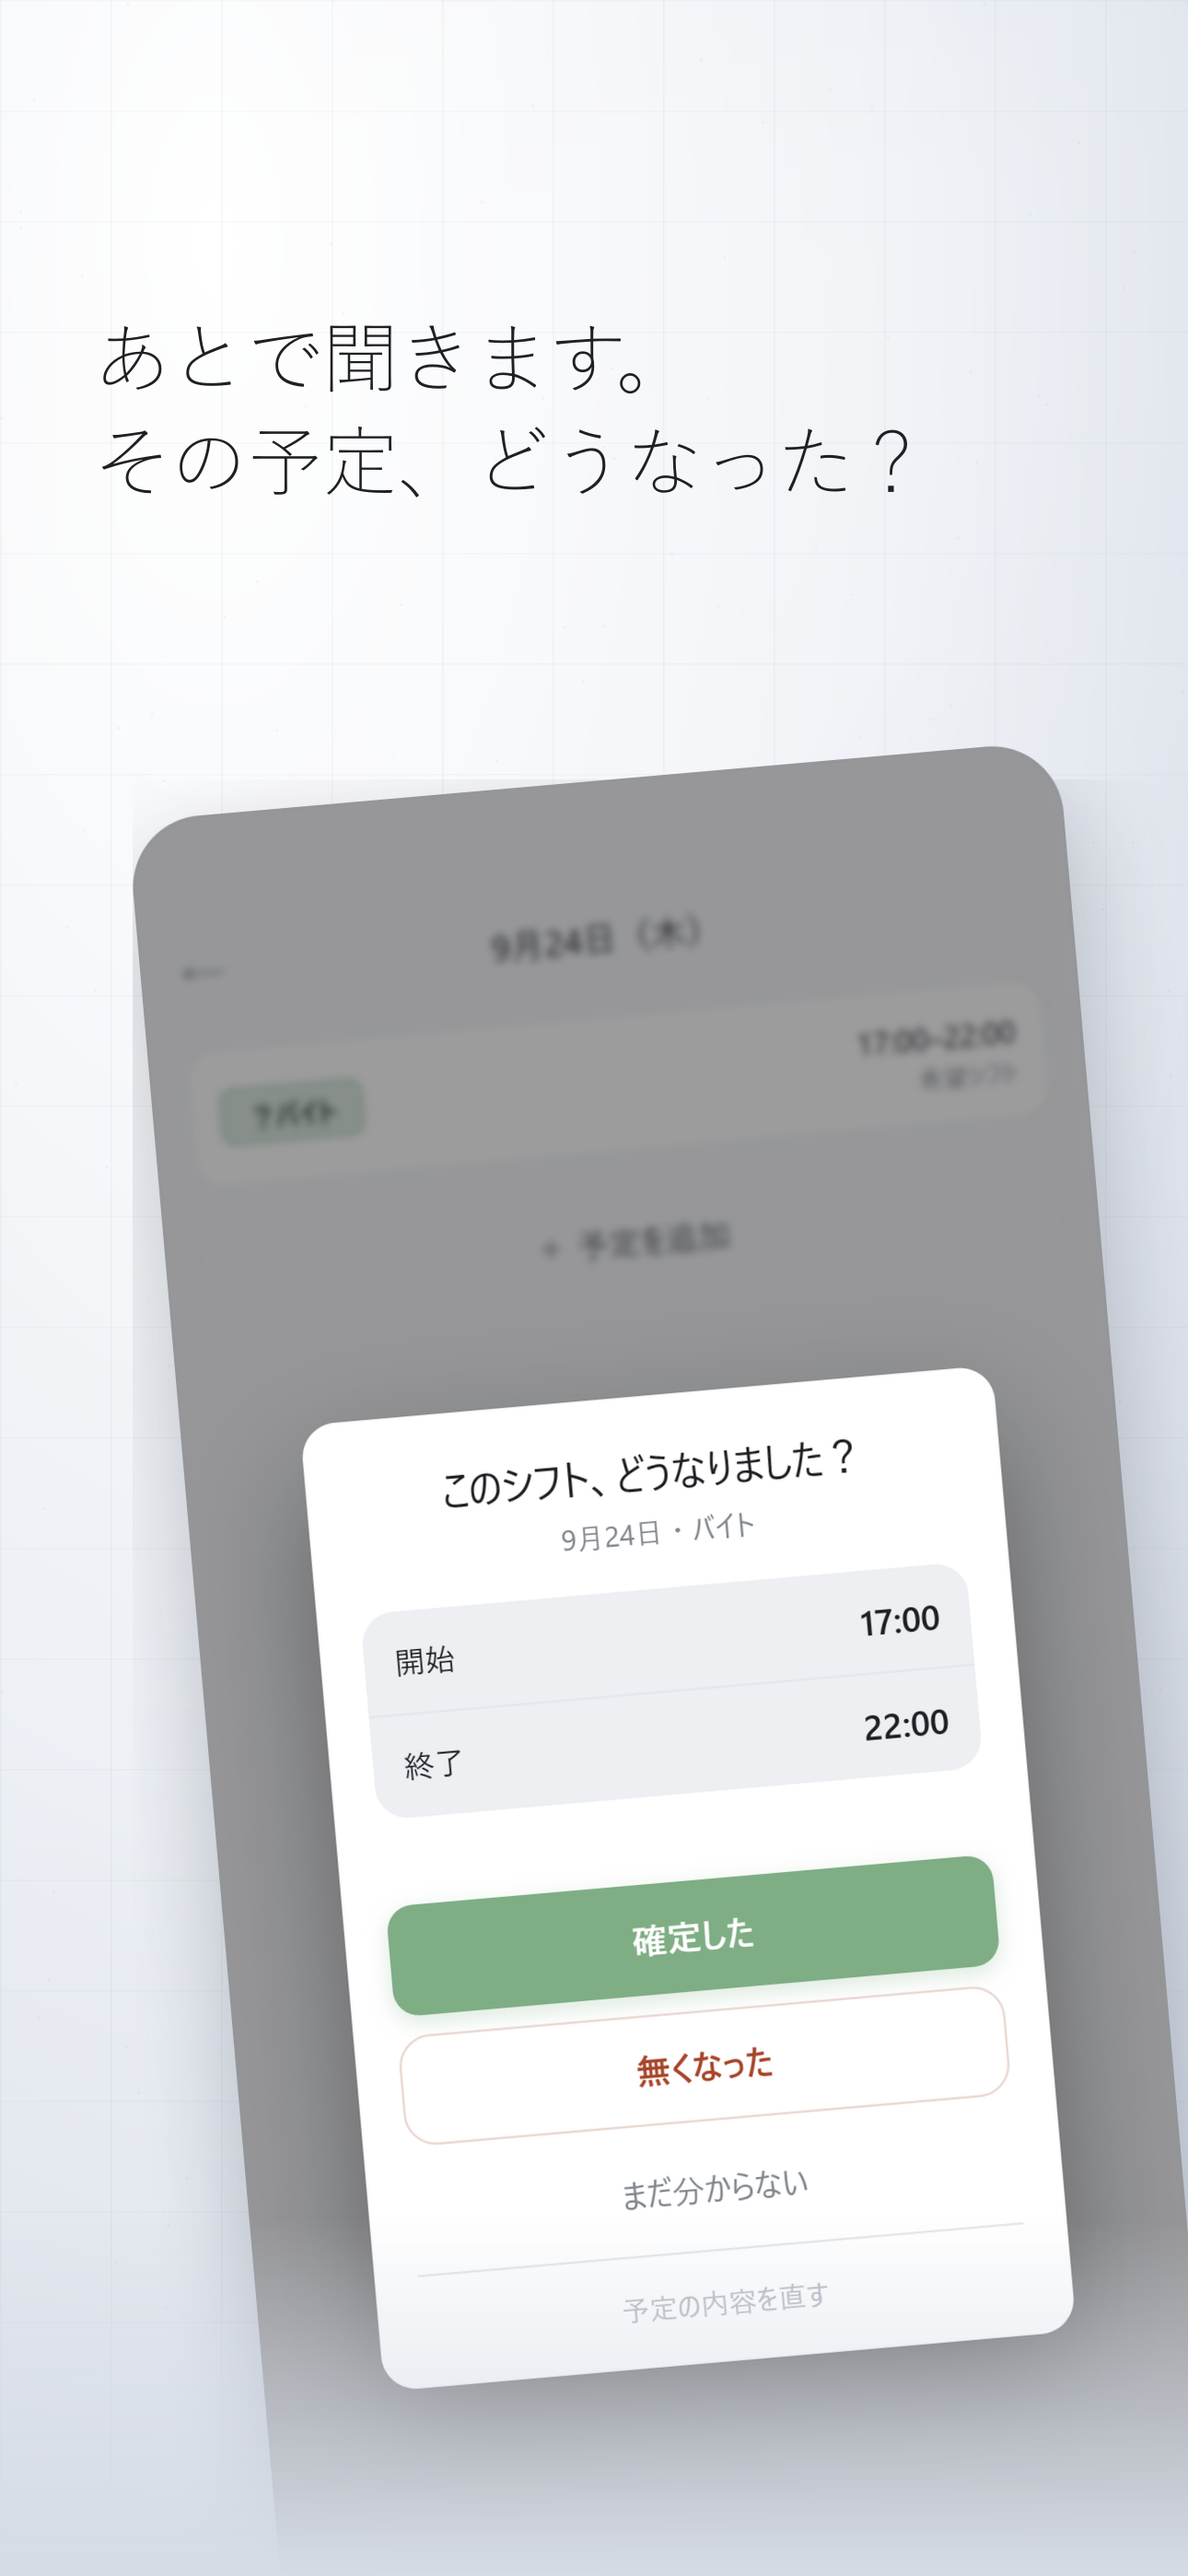
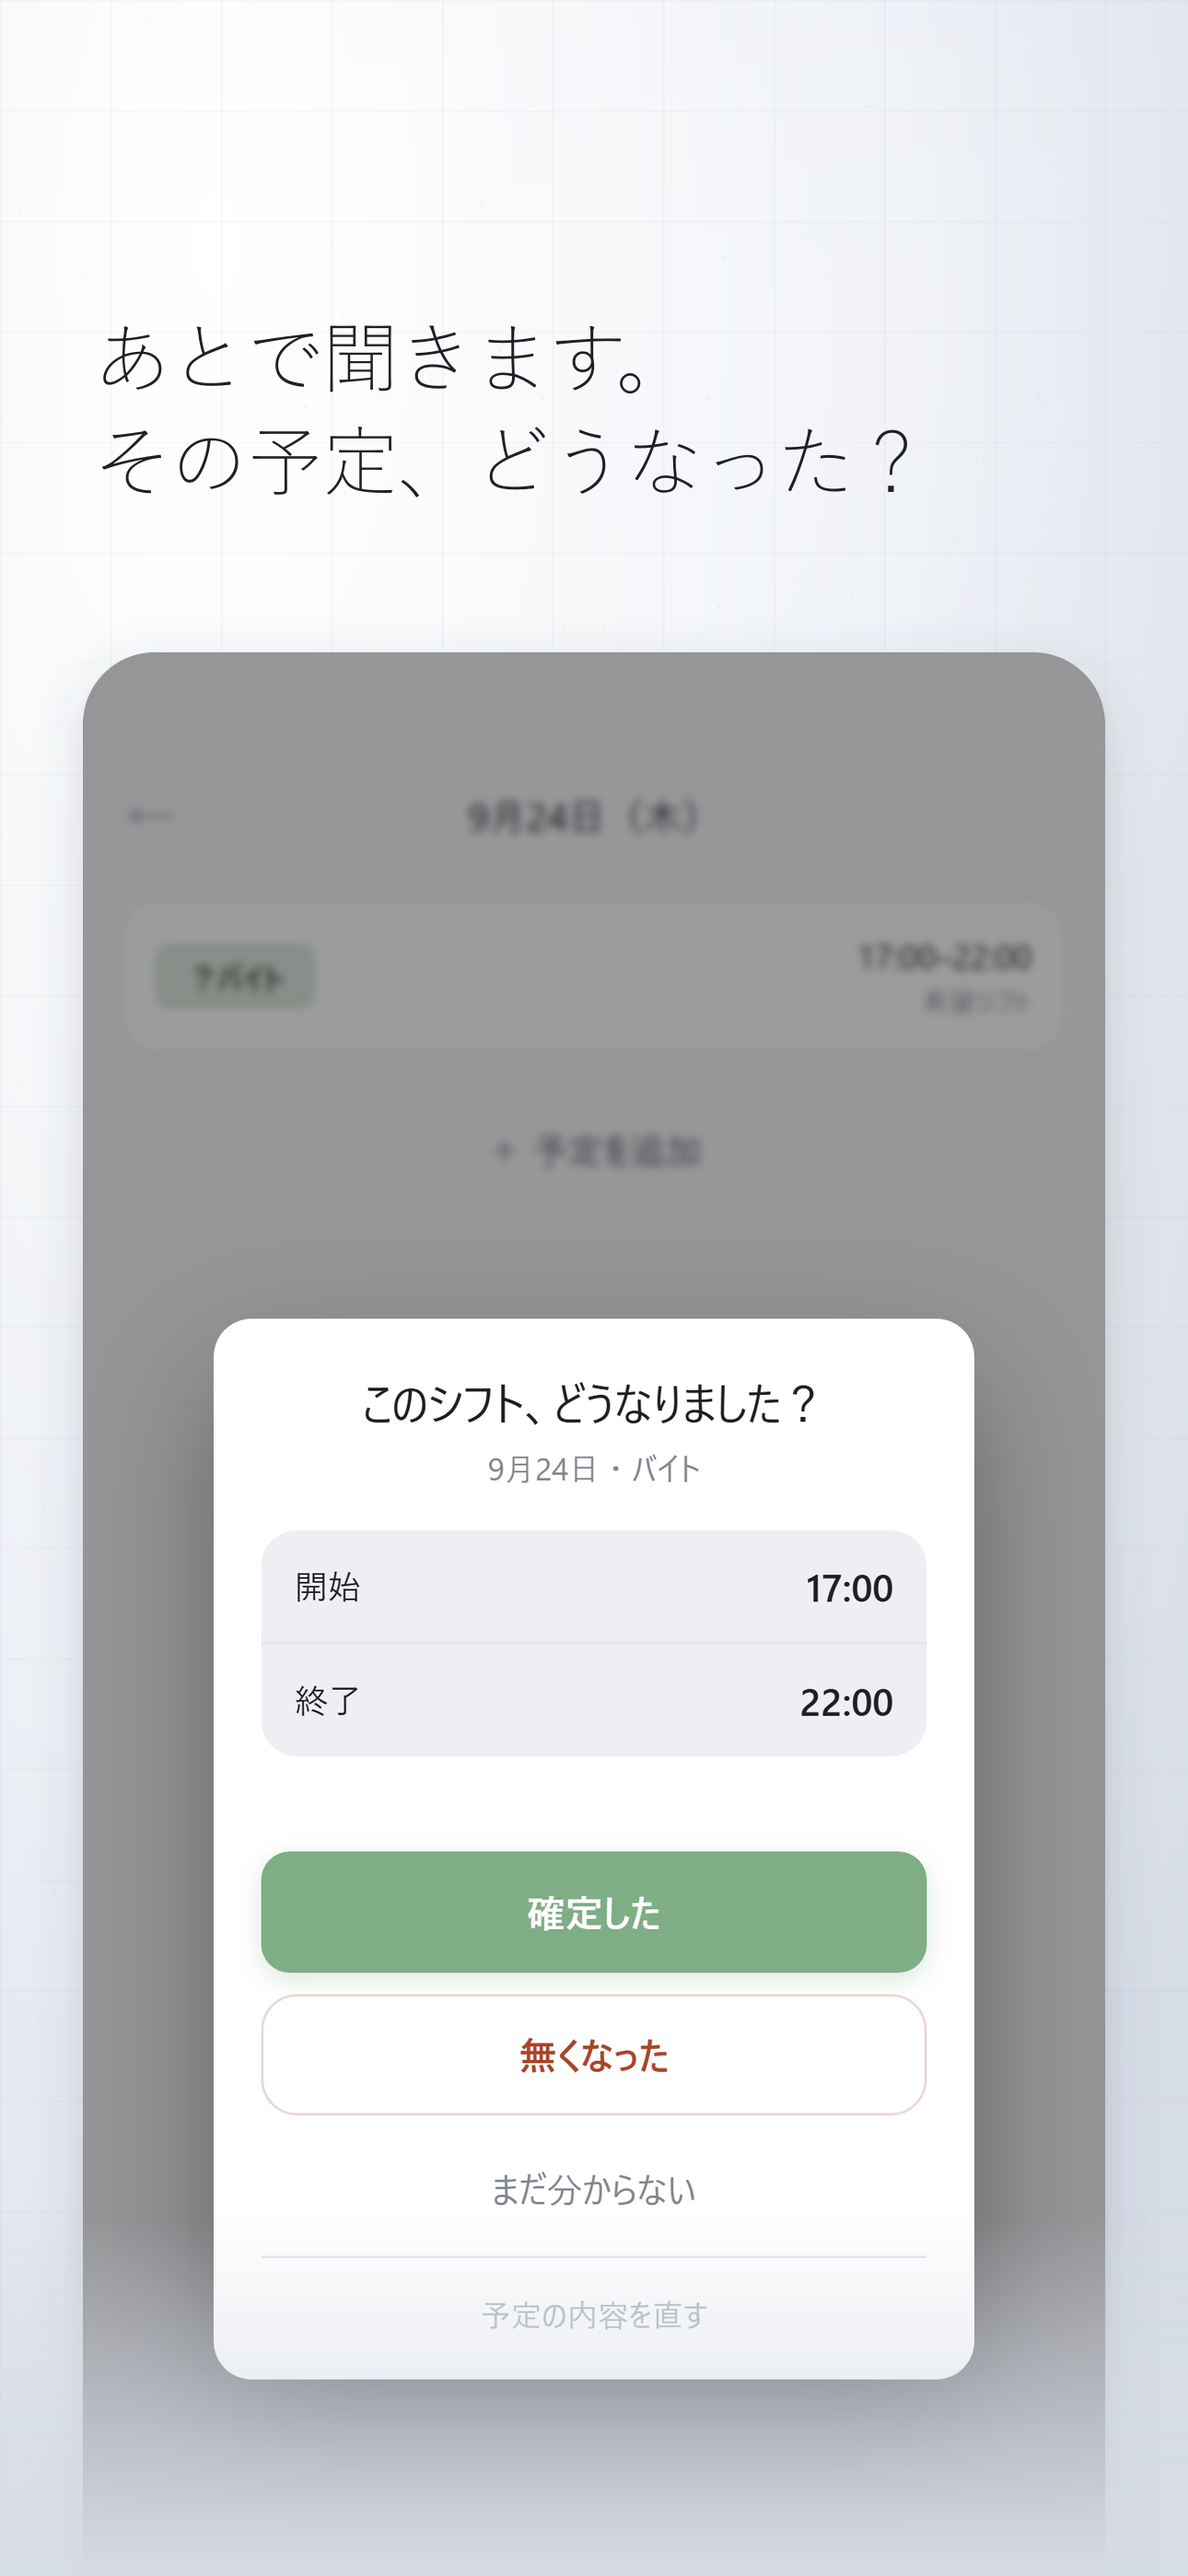
Revert "2枚目から板を傾けて、並びにリズムを付ける"
This reverts commit e596c778de576cba66b183dc4dc78250fd77e9bc.

diff --git a/store-assets/app-store-metadata.md b/store-assets/app-store-metadata.md
@@ -219,13 +219,6 @@ App Store に登録するのは、そこに見出しを載せた **`store-cards-
   アプリの地はその下まで続いている。**その地の色をそのまま上へ伸ばしている**
   ——白で塗ると継ぎ目が出るし、時計を描き足すと嘘になる
 - **板の下は地へ霞ませて終わらせる。** ぶつ切りは「切り忘れ」に見える
-- **1枚目だけ正面。2枚目から板を傾ける。** 真正面に5枚並べると「貼っただけ」に見える。
-  傾きは向きを交互にして（−5 / +6 / −5 / +6）、左右どちらへ流すかも入れ替える。
-  **切れてもよいが、その画面の要点が残ることだけは確かめる** —— 一度3枚目を右へ流して
-  「給料」のつまみを切ってしまい、見出しが指している証拠が消えた。左へ流し直した
-- 傾けた板の影は、**四角い影を回しても形が合わない**。板と同じ形の黒を作ってぼかす
-  （`shadowOf`）。枠からはみ出す分は先に切る（`place`）——
-  sharp は枠より大きい画像を `composite` で受け取らない
 - 色はアプリが実際に出しているものだけ。Lab で揃えた色（NEXT.md の B）は
   入れないと決めたので、宣伝にも出さない
 
